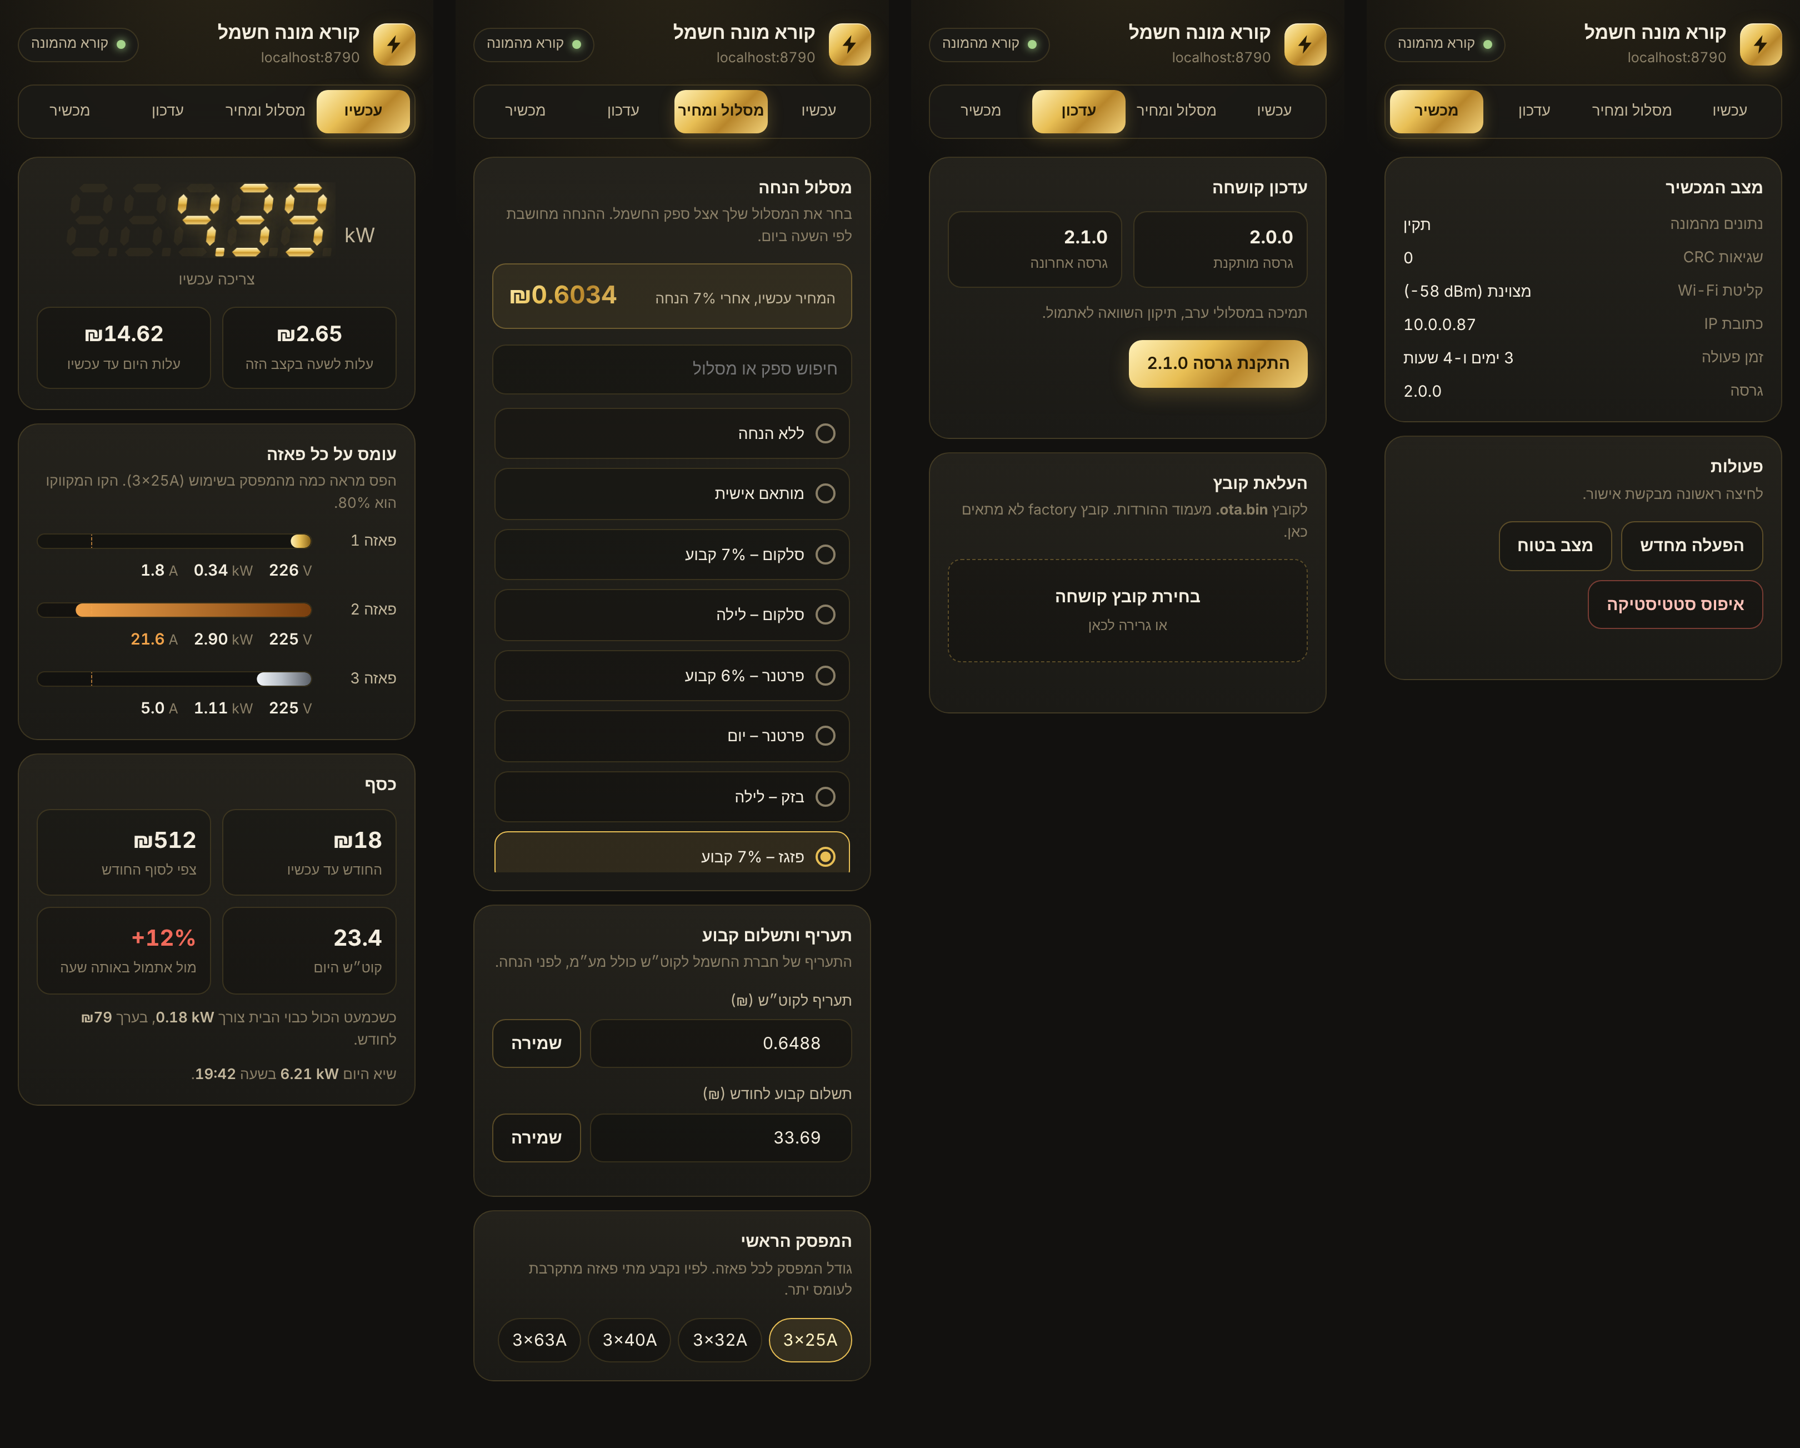
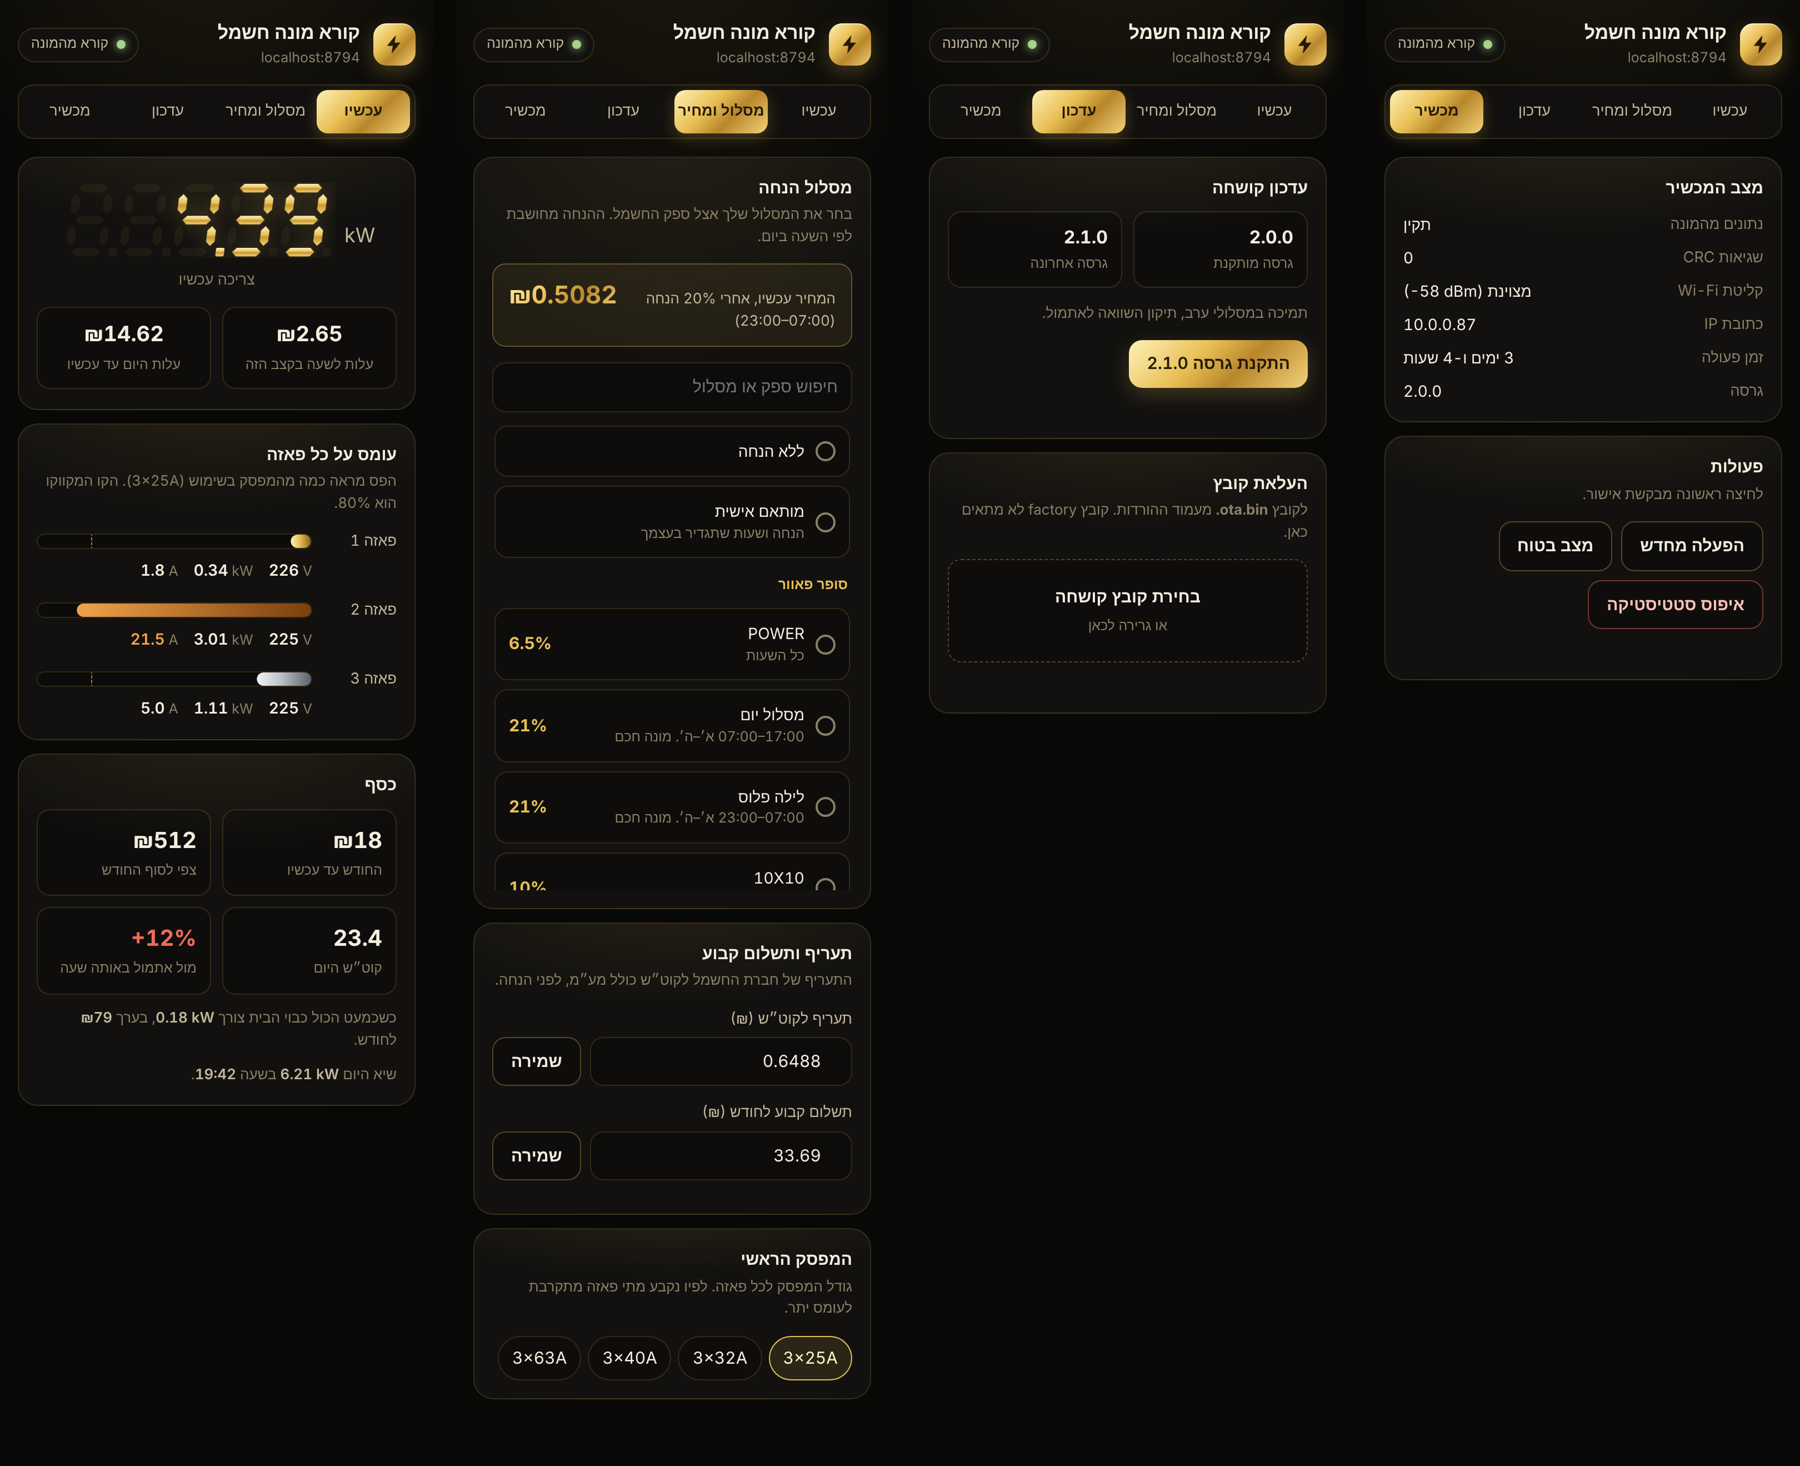
Gold UI, Wi-Fi page and installer: black-gold surfaces matching the 3D card
Claude-Session: https://claude.ai/code/session_01PjC1qJCvEgdXEYctX4qpRp

diff --git a/static/index.html b/static/index.html
@@ -3,15 +3,15 @@
 <head>
 <meta charset="UTF-8">
 <meta name="viewport" content="width=device-width, initial-scale=1">
-<meta name="theme-color" content="#12110f">
+<meta name="theme-color" content="#080807">
 <title>צריבת קורא המונה</title>
 <meta name="description" content="צריבת הקושחה לקורא P1 של מונה תלת-פאזי של חברת החשמל, ישר מהדפדפן.">
 <script type="module" src="https://cdn.jsdelivr.net/npm/esp-web-tools@10.4.0/dist/web/install-button.js"></script>
 <style>
 :root {
-  --bg: #12110f;
-  --panel: #1b1a16;
-  --panel-2: #24221c;
+  --bg: #080807;
+  --panel: #12110f;
+  --panel-2: #12110f;
   --line: rgba(232, 191, 85, 0.16);
   --line-2: rgba(232, 191, 85, 0.34);
   --ink: #f4eee0;
@@ -26,10 +26,10 @@
   /* ESP Web Tools dialogs (Material 3) in the same gold */
   --md-sys-color-primary: #e8bf55;
   --md-sys-color-on-primary: #241a05;
-  --md-sys-color-surface: #1b1a16;
-  --md-sys-color-surface-container: #1b1a16;
-  --md-sys-color-surface-container-high: #24221c;
-  --md-sys-color-surface-container-highest: #2c2a23;
+  --md-sys-color-surface: #12110f;
+  --md-sys-color-surface-container: #12110f;
+  --md-sys-color-surface-container-high: #15140f;
+  --md-sys-color-surface-container-highest: #1e1c17;
   --md-sys-color-on-surface: #f4eee0;
   --md-sys-color-on-surface-variant: #c3b79c;
   --md-sys-color-outline: rgba(232, 191, 85, 0.4);
@@ -43,7 +43,7 @@ body {
   min-height: 100vh;
   color: var(--ink);
   font: 16px/1.6 -apple-system, "Segoe UI", Roboto, "Noto Sans Hebrew", Arial, sans-serif;
-  background: radial-gradient(120% 50% at 50% -10%, rgba(232, 191, 85, 0.15), transparent 60%), var(--bg);
+  background: radial-gradient(120% 50% at 50% -10%, rgba(232, 191, 85, 0.10), transparent 60%), var(--bg);
   -webkit-font-smoothing: antialiased;
 }
 main { max-width: 680px; margin: 0 auto; padding: 40px 16px 64px; }
@@ -56,7 +56,7 @@ header { text-align: center; margin-bottom: 30px; }
 h1 { margin: 0; font-size: clamp(26px, 6vw, 34px); line-height: 1.2; letter-spacing: -0.02em; font-weight: 700; }
 .lede { margin: 10px auto 0; max-width: 34em; color: var(--ink-2); }
 
-.panel { background: linear-gradient(180deg, var(--panel-2), var(--panel)); border: 1px solid var(--line); border-radius: 20px; padding: 20px; margin-bottom: 14px; }
+.panel { background: radial-gradient(120% 70% at 50% -15%, rgba(232, 191, 85, 0.11), transparent 60%), #12110f; border: 1px solid var(--line); border-radius: 20px; padding: 20px; margin-bottom: 14px; }
 h2 { margin: 0 0 12px; font-size: 18px; font-weight: 650; }
 
 .boards { display: grid; grid-template-columns: 1fr 1fr; gap: 10px; }

diff --git a/esphome/ui/portal.html b/esphome/ui/portal.html
@@ -3,13 +3,13 @@
 <head>
 <meta charset="UTF-8">
 <meta name="viewport" content="width=device-width, initial-scale=1">
-<meta name="theme-color" content="#12110f">
+<meta name="theme-color" content="#080807">
 <title>חיבור הקורא ל-Wi-Fi</title>
 <style>
-:root{--bg:#12110f;--panel:#1b1a16;--panel2:#24221c;--line:rgba(232,191,85,.16);--line2:rgba(232,191,85,.34);--ink:#f4eee0;--ink2:#c3b79c;--ink3:#8a7f67;--gold:#e8bf55;--grad:linear-gradient(135deg,#fff1b8 0%,#e8bf55 38%,#b8862b 62%,#f2d27a 100%);--on:#241a05;--ok:#a6d38b;--bad:#f06a5a;color-scheme:dark}
+:root{--bg:#080807;--panel:#12110f;--panel2:#12110f;--line:rgba(232,191,85,.16);--line2:rgba(232,191,85,.34);--ink:#f4eee0;--ink2:#c3b79c;--ink3:#8a7f67;--gold:#e8bf55;--grad:linear-gradient(135deg,#fff1b8 0%,#e8bf55 38%,#b8862b 62%,#f2d27a 100%);--on:#241a05;--ok:#a6d38b;--bad:#f06a5a;color-scheme:dark}
 *{box-sizing:border-box}
 html,body{margin:0}
-body{min-height:100vh;color:var(--ink);font:15px/1.5 -apple-system,"Segoe UI",Roboto,"Noto Sans Hebrew",Arial,sans-serif;background:radial-gradient(120% 60% at 50% -10%,rgba(232,191,85,.14),transparent 60%),var(--bg);-webkit-font-smoothing:antialiased}
+body{min-height:100vh;color:var(--ink);font:15px/1.5 -apple-system,"Segoe UI",Roboto,"Noto Sans Hebrew",Arial,sans-serif;background:radial-gradient(120% 50% at 50% -10%,rgba(232,191,85,.10),transparent 60%),var(--bg);-webkit-font-smoothing:antialiased}
 main{max-width:440px;margin:0 auto;padding:28px 16px 40px}
 button,input{font:inherit;color:inherit}
 :focus-visible{outline:2px solid #fff3c4;outline-offset:2px}
@@ -19,7 +19,7 @@ button,input{font:inherit;color:inherit}
 h1{margin:0;text-align:center;font-size:21px;font-weight:650;letter-spacing:-.01em}
 .sub{margin:6px 0 22px;text-align:center;color:var(--ink3);font-size:13.5px}
 .sub bdi{color:var(--ink2)}
-.card{background:linear-gradient(180deg,var(--panel2),var(--panel));border:1px solid var(--line);border-radius:18px;padding:8px}
+.card{background:radial-gradient(120% 70% at 50% -15%,rgba(232,191,85,.11),transparent 60%),#12110f;border:1px solid var(--line);border-radius:18px;padding:8px}
 .head{display:flex;align-items:center;justify-content:space-between;padding:8px 8px 10px}
 .head b{font-size:14px;font-weight:600}
 .link{border:0;background:none;color:var(--gold);font-size:13.5px;cursor:pointer;padding:4px}

diff --git a/esphome/ui/app.js b/esphome/ui/app.js
@@ -214,9 +214,9 @@ function duration(sec) {
 /* ---------- styles ---------- */
 const CSS = `
 :root {
-  --bg: #12110f;
-  --panel: #1b1a16;
-  --panel-2: #24221c;
+  --bg: #080807;
+  --panel: #12110f;
+  --panel-2: #12110f;
   --line: rgba(232, 191, 85, 0.16);
   --line-2: rgba(232, 191, 85, 0.32);
   --ink: #f4eee0;
@@ -245,7 +245,7 @@ body {
   font: 15px/1.5 -apple-system, "Segoe UI", Roboto, "Noto Sans Hebrew", "Arial Hebrew", Arial, sans-serif;
   font-variant-numeric: tabular-nums;
   background:
-    radial-gradient(120% 60% at 50% -10%, rgba(232, 191, 85, 0.13), transparent 60%),
+    radial-gradient(120% 50% at 50% -10%, rgba(232, 191, 85, 0.10), transparent 60%),
     var(--bg);
   -webkit-font-smoothing: antialiased;
 }
@@ -304,7 +304,7 @@ button { cursor: pointer; }
   padding: 4px;
   margin: 0 0 16px;
   border-radius: 14px;
-  background: rgba(27, 26, 22, 0.86);
+  background: rgba(18, 17, 15, 0.88);
   backdrop-filter: blur(10px);
   -webkit-backdrop-filter: blur(10px);
   border: 1px solid var(--line);
@@ -325,7 +325,7 @@ button { cursor: pointer; }
 
 /* panels */
 .panel {
-  background: linear-gradient(180deg, var(--panel-2), var(--panel));
+  background: radial-gradient(120% 70% at 50% -15%, rgba(232, 191, 85, 0.11), transparent 60%), #12110f;
   border: 1px solid var(--line);
   border-radius: var(--r-lg);
   padding: 16px;
@@ -510,7 +510,7 @@ class EspApp extends HTMLElement {
     }
     const tc = document.createElement("meta");
     tc.name = "theme-color";
-    tc.content = "#12110f";
+    tc.content = "#080807";
     document.head.appendChild(tc);
     const st = document.createElement("style");
     st.textContent = CSS;
